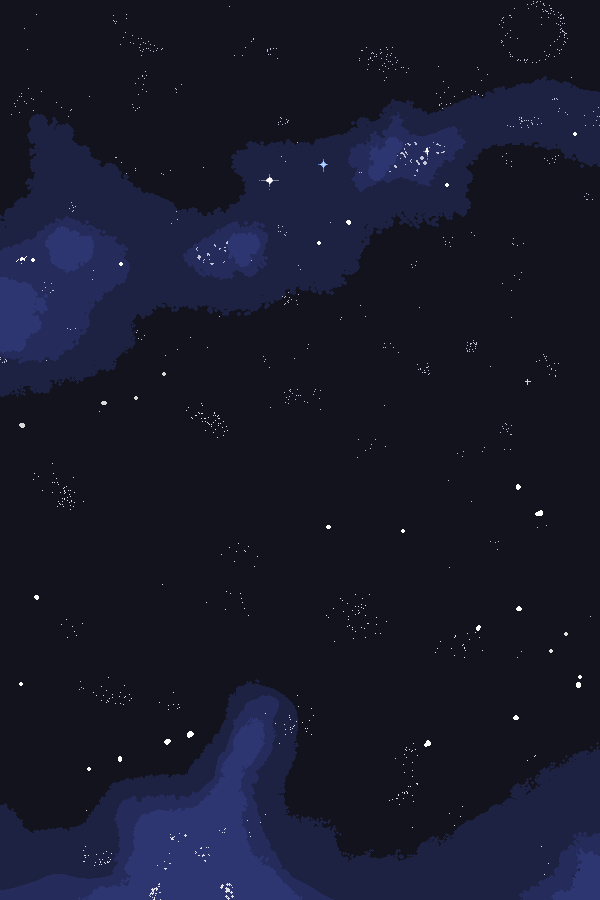
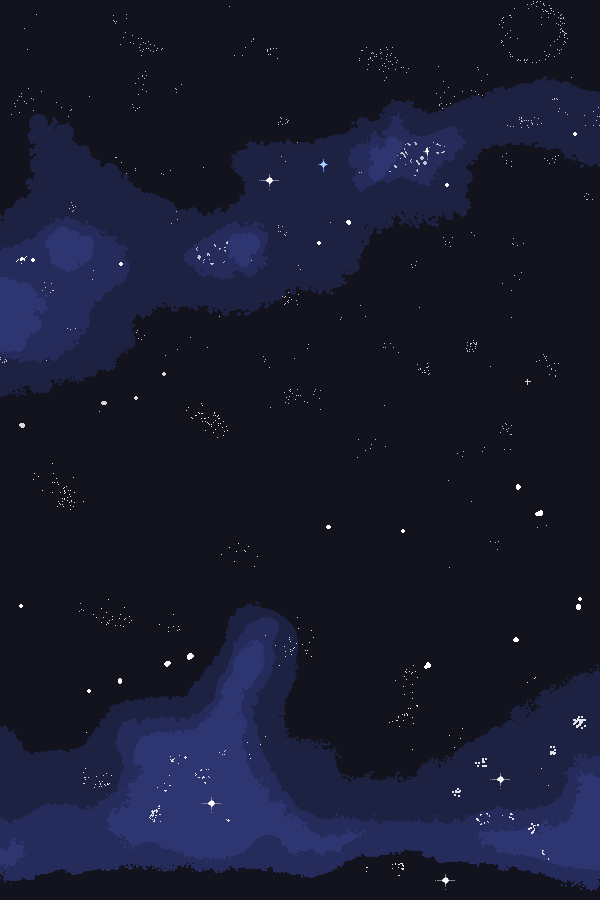
feat: pull con menu y jugabilidad

Changed region(s): [[0.0, 0.6533, 1.0, 1.0]]

diff --git a/main.py b/main.py
@@ -1,5 +1,4 @@
 import sys, pygame
-from button import Button
 
 # inicializo pygame
 pygame.init()
@@ -14,24 +13,25 @@ FPS = 60
 
 #Variables
 GRAVITY = 1                                                             #Esta variable se encarga de modificar el valor de la gravedad
-
-# Font
-font = pygame.font.Font('freesansbold.ttf',28)
-def getFont(fontSize):
-  return pygame.font.Font('freesansbold.ttf', fontSize)
+scroll = 0
+bg_scroll = 0
 
 # titulo de la ventana
-pygame.display.set_caption("Space Fall")
+pygame.display.set_caption("Space Jump")
 
 #cargar imagenes
-bg_image = pygame.image.load("./img/background.png").convert_alpha()
-player_sprite = pygame.image.load("./img/Astronaut_Falling.png").convert_alpha()
+bg_image = pygame.image.load("img/background.png").convert_alpha()
+player_sprite = pygame.image.load("img/Astronaut_Falling.png").convert_alpha()
+
+#scrolling bg
+def draw_bg(bg_scroll):
+  screen.blit(bg_image, (0,0 + bg_scroll))                              #Usa dos fondos p/ dar continuidad, cuando llega al tope de ambos, reinicia el bg_scroll y vuelve a empezar desde 0
+  screen.blit(bg_image, (0, -900 + bg_scroll))
 
 #colores
 BLANCO = (255, 255, 255)
 
 class Player():                                                         #Clase del jugador 
-
   def __init__(self, x, y):
     self.image = pygame.transform.scale(player_sprite, (80,80))         #Inicializa y reescala el sprite
     self.height = 75
@@ -42,6 +42,7 @@ class Player():                                                         #Clase d
     self.flip = False  
 
   def move(self):                                                       #Dependiendo de que tecla se toca:
+    scroll = 0
     dx = 0 
     dy = 0
 
@@ -55,7 +56,6 @@ class Player():                                                         #Clase d
     if key[pygame.K_SPACE]:
       dy = 0
       self.vel_y = -20
-
 
     #Seteo gravedad
     self.vel_y += GRAVITY
@@ -71,39 +71,47 @@ class Player():                                                         #Clase d
     if self.rect.right + dx > 600:
       dx = 600 - self.rect.right
 
+    if self.rect.top <= 200:
+      if self.vel_y < 0:
+        scroll = -dy
+
     #actualizo el valor de movimiento por variables almacenando movimiento en pixeles
     self.rect.x += dx
-    self.rect.y += dy
+    self.rect.y += dy + scroll
+
+    return scroll
 
   def draw(self):                                                       #Funcion dedicada a imprimir el sprite // Dependiendo su direccion, se flipea el sprite
     screen.blit(pygame.transform.flip(self.image, self.flip, False), (self.rect.x - 20, self.rect.y - 5))
     pygame.draw.rect(screen, BLANCO, self.rect, 2)                      #DEBUG // Imprime el box collision
 
-def play():
-  # comienzo del juego
-  score = 0
-  running = True
-  player = Player(300, 750)                                               #Inicializa al Player en X=300 Y=750
-  jumping = False
-  while running:
 
-    clock.tick(FPS)                                                       #Setea los FPS a 60
-    player.move()                                                         #Agrega funcionalidad de movimiento en la clase Player
-    screen.blit(bg_image, (0,0))                                          #Imprimir fondo
-    player.draw()                                                         #Imprimir sprites
-    score += 1
-    scoreDisplay = font.render("Puntuación: " + str(score), True, (255,255,255))
-    screen.blit(scoreDisplay,(10,10))
+# comienzo del juego
+running = True
+player = Player(300, 750)                                               #Inicializa al Player en X=300 Y=750
+while running:
 
-    # capturador de eventos
-    for event in pygame.event.get():
-      # detección de salida de ventana
-      if event.type == pygame.QUIT:
-        run = False
-        # salir de pygame
-        pygame.quit()
+  clock.tick(FPS)                                                       #Setea los FPS a 60
+  scroll = player.move()                                                #Agrega funcionalidad de movimiento en la clase Player
+  bg_scroll += scroll                                                   #Esta variable va sumando de manera continua el progreso del scroll
+  if bg_scroll >= 900:
+    bg_scroll =0
+  draw_bg(bg_scroll)                                                       #Imprimir fondo
+  player.draw()                                                         #Imprimir sprites
 
-    pygame.display.update()
+  #pygame.draw.line(screen, BLANCO, (0, 200), (600, 200))                #Linea que indica cuando debe empezar a mover la camara (Scroll) TEST
+
+  # capturador de eventos
+  for event in pygame.event.get():
+    # detección de salida de ventana
+    if event.type == pygame.QUIT:
+      run = False
+      # salir de pygame
+      pygame.quit()
+
+  pygame.display.update()
+
+
 
 # Menu principal
 def main_menu():
